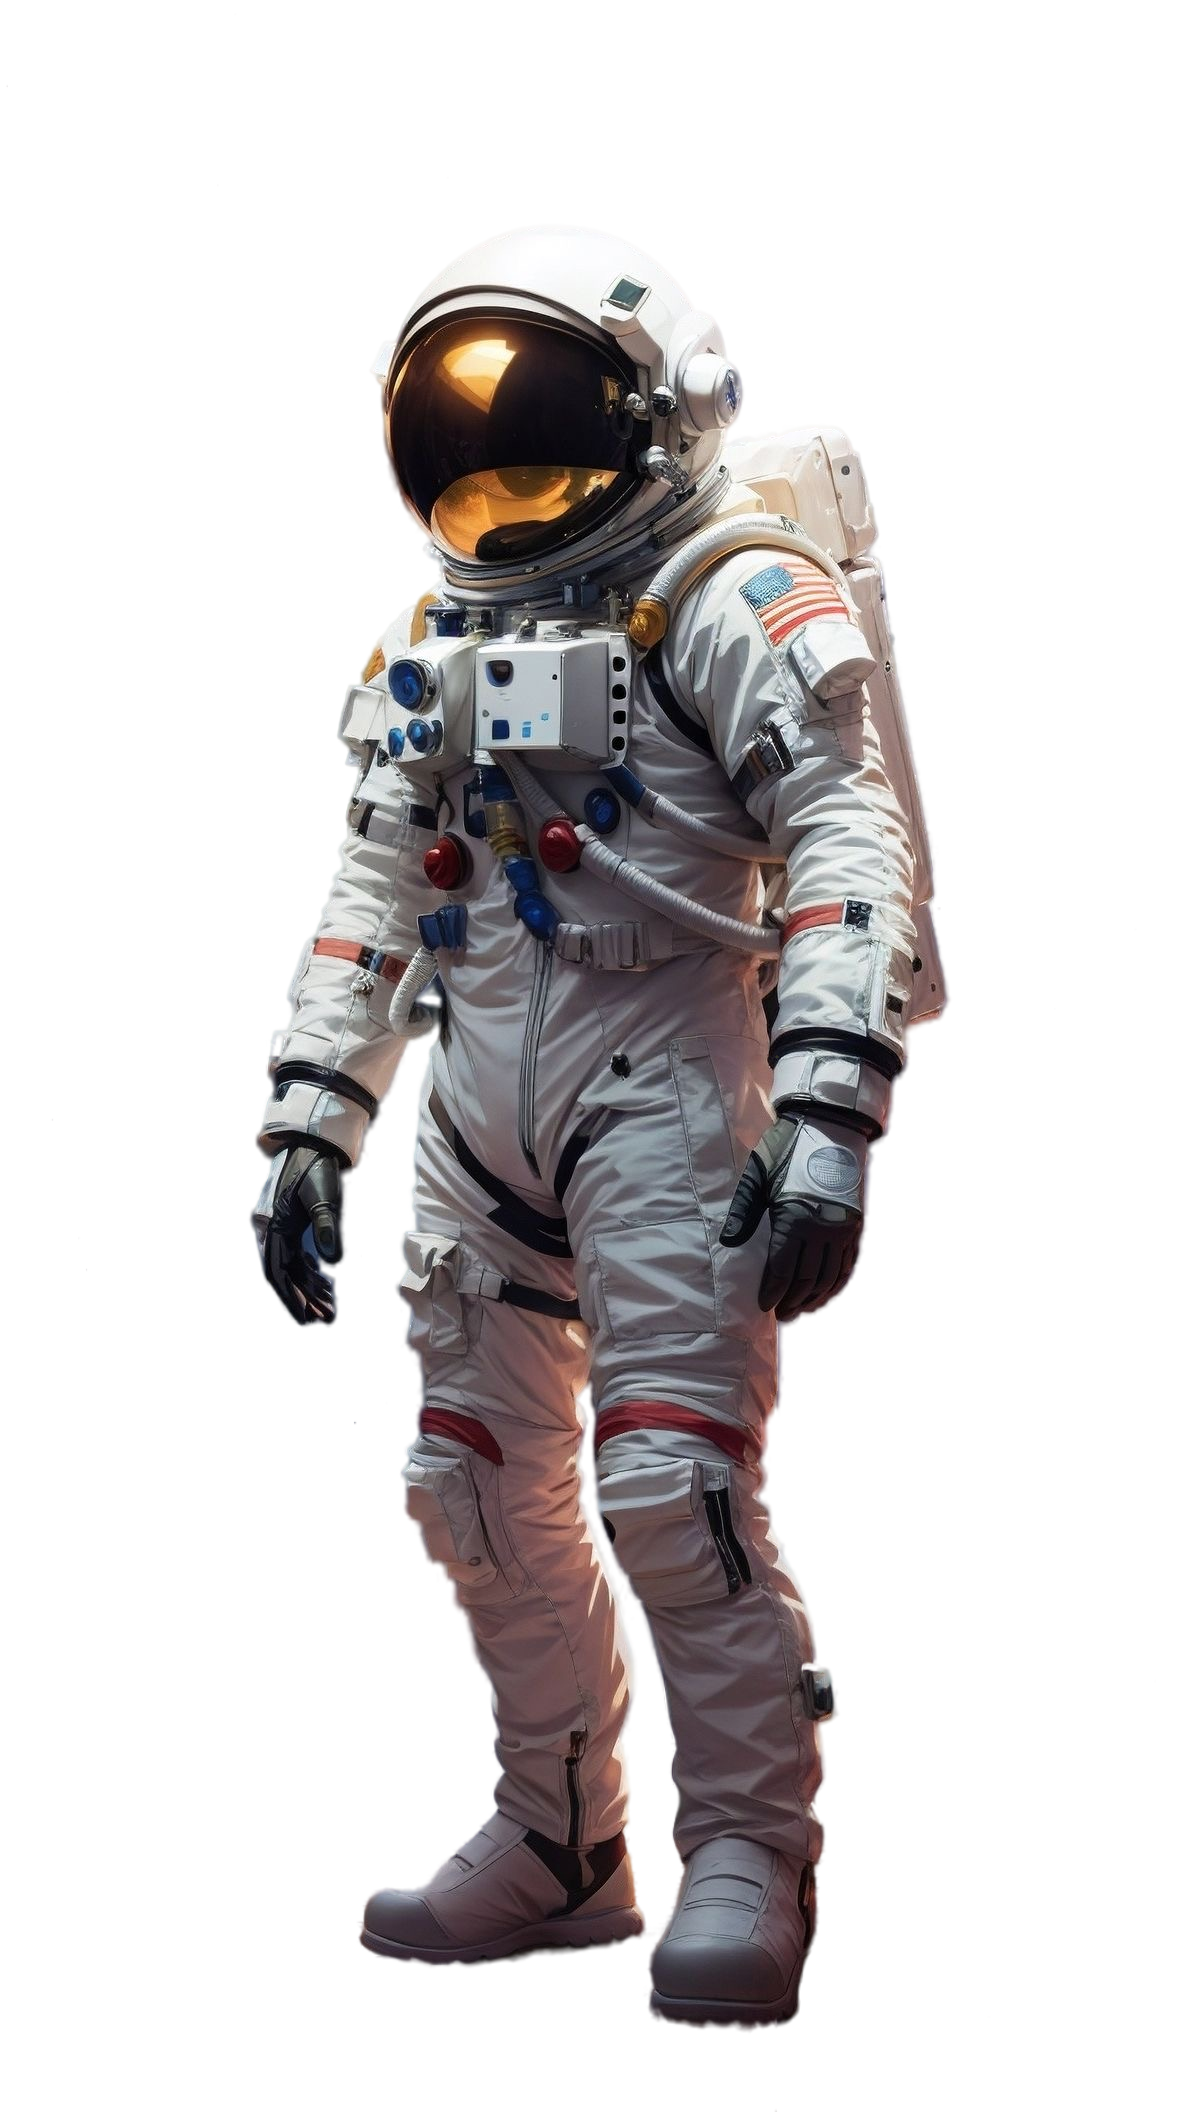
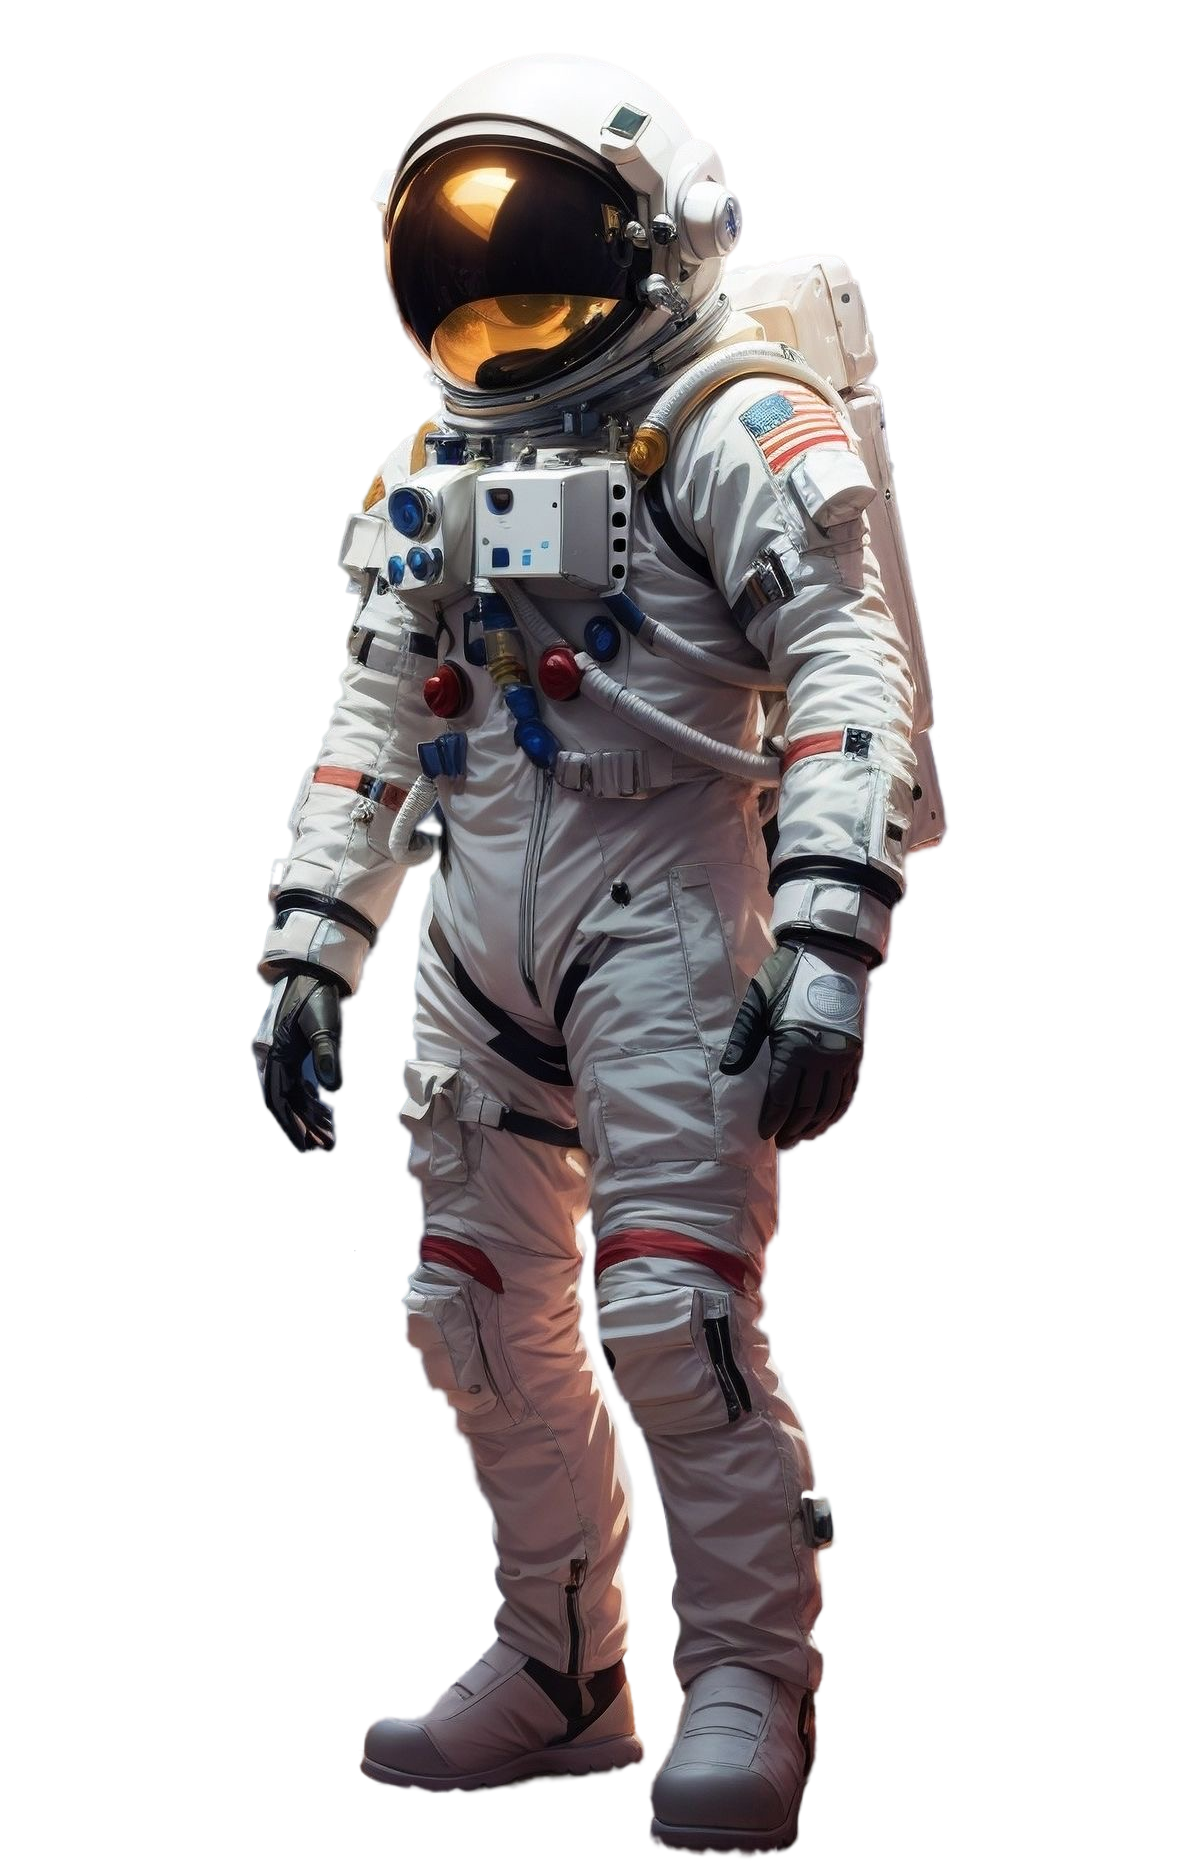
ajuste style

Changed region(s): [[0.185, 0.0619, 0.8017, 0.9904]]

diff --git a/src/Niveis/nivel.jsx b/src/Niveis/nivel.jsx
@@ -122,7 +122,71 @@ export const Nivel = () => {
             width: '50%',
             height: '80%',
             paddingLeft: 10
-        }
+        },
+        startType1: {
+            width: 0.8,
+            height: 0.8,
+            backgroundColor: 'white',
+            borderRadius: '50%',
+            borderWidth: 0.8,
+            borderColor: 'white',
+            shadowColor: 'rgba(50,115,220, 0.9)',
+            marginBottom: 70,
+            marginRight: 50
+        },
+        startType2: {
+            width: 1.3,
+            height: 1.3,
+            backgroundColor: '#E5E5E5',
+            borderRadius: '50%',
+            borderWidth: 1.3,
+            borderColor: '#E5E5E5',
+            shadowColor: 'rgba(50,115,220, 0.9)',
+            marginLeft: 30,
+        },
+        startType3: {
+            width: 0.8,
+            height: 0.8,
+            backgroundColor: 'white',
+            borderRadius: '50%',
+            borderWidth: 0.8,
+            borderColor: 'white',
+            shadowColor: 'rgba(50,115,220, 0.9)',
+            marginTop: 80,
+            marginLeft: 30,
+            marginRight: 50
+        },
+        startType4: {
+            width: 1.3,
+            height: 1.3,
+            backgroundColor: '#E5E5E5',
+            borderRadius: '50%',
+            borderWidth: 1.3,
+            borderColor: '#E5E5E5',
+            shadowColor: 'rgba(50,115,220, 0.9)',
+            marginLeft: 30,
+            marginTop: 25
+        },
+        startType5: {
+            width: 0.8,
+            height: 0.8,
+            backgroundColor: 'white',
+            borderRadius: '50%',
+            borderWidth: 0.8,
+            borderColor: 'white',
+            shadowColor: 'rgba(50,115,220, 0.9)',
+            marginLeft: 70
+        },
+        startType6: {
+            width: 0.8,
+            height: 0.8,
+            backgroundColor: '#E5E5E5',
+            borderRadius: '50%',
+            borderWidth: 0.8,
+            borderColor: '#E5E5E5',
+            shadowColor: 'rgba(50,115,220, 0.9)',
+        },
+
     })
 
     const [openModalNivel, setOpenModalNivel] = useState(false);
@@ -245,7 +309,7 @@ export const Nivel = () => {
             <View style={styles.nomeUsuario}>
                 <Text style={styles.nomeText}>Olá {dadosUsuario.nome}!</Text>
             </View>
-            <Animatable.View  delay={3000} animation="fadeInUp" style={styles.body}>
+            <Animatable.View delay={3000} animation="fadeInUp" style={styles.body}>
                 <ScrollView style={styles.scroll}>
                     <TouchableOpacity style={styles.buttonLevelsAbled} onPress={() => { perguntas(); setNivel(1); checkFinishLevel(); }}>
                         <Text style={styles.actionText}>Nível 1</Text>
@@ -301,7 +365,25 @@ export const Nivel = () => {
                     />
                 </ScrollView>
                 <View style={styles.image}>
-                    <Image style={{ width: 210, height: 630 }} source={require('../../img/astronautaImg4.png')} />
+                    <View style={{ display: 'flex', flexDirection: 'row', width: '100%', marginBottom: 20, marginLeft: 20, height: '17%' }}>
+                        <View>
+                            <View style={styles.startType1} />
+                            <View style={styles.startType2} />
+                        </View>
+                        <View style={{ paddingTop: 10 }}>
+                            <View style={styles.startType4} />
+                            <View style={styles.startType3} />
+                        </View>
+                        <View>
+                            <View style={styles.startType1} />
+                            <View style={styles.startType2} />
+                        </View>
+                    </View>
+                    <View>
+                        <View style={styles.startType5} />
+                        <View style={styles.startType6} />
+                    </View>
+                    <Image style={{ width: 210, height: 560, marginBottom: 10 }} source={require('../../img/astronautaImg4.png')} />
                 </View>
             </Animatable.View>
         </LinearGradient>

diff --git a/src/Principal/principal.jsx b/src/Principal/principal.jsx
@@ -95,7 +95,7 @@ export const Principal = () => {
       locations={[.3, 0.67]}
       colors={['#3544A7', '#000720']}>
       <View style={styles.loginCadastro}>
-        <TouchableOpacity onPress={handleOpenLogin}>
+        <TouchableOpacity onPress={handleOpenLogin} style={{ width: 60}}>
           <Text style={{ color: '#D0D1CE', paddingRight: '6%', fontSize: 17 }}>Entrar</Text>
         </TouchableOpacity>
         <TouchableOpacity onPress={handleOpenCadastrar}>
